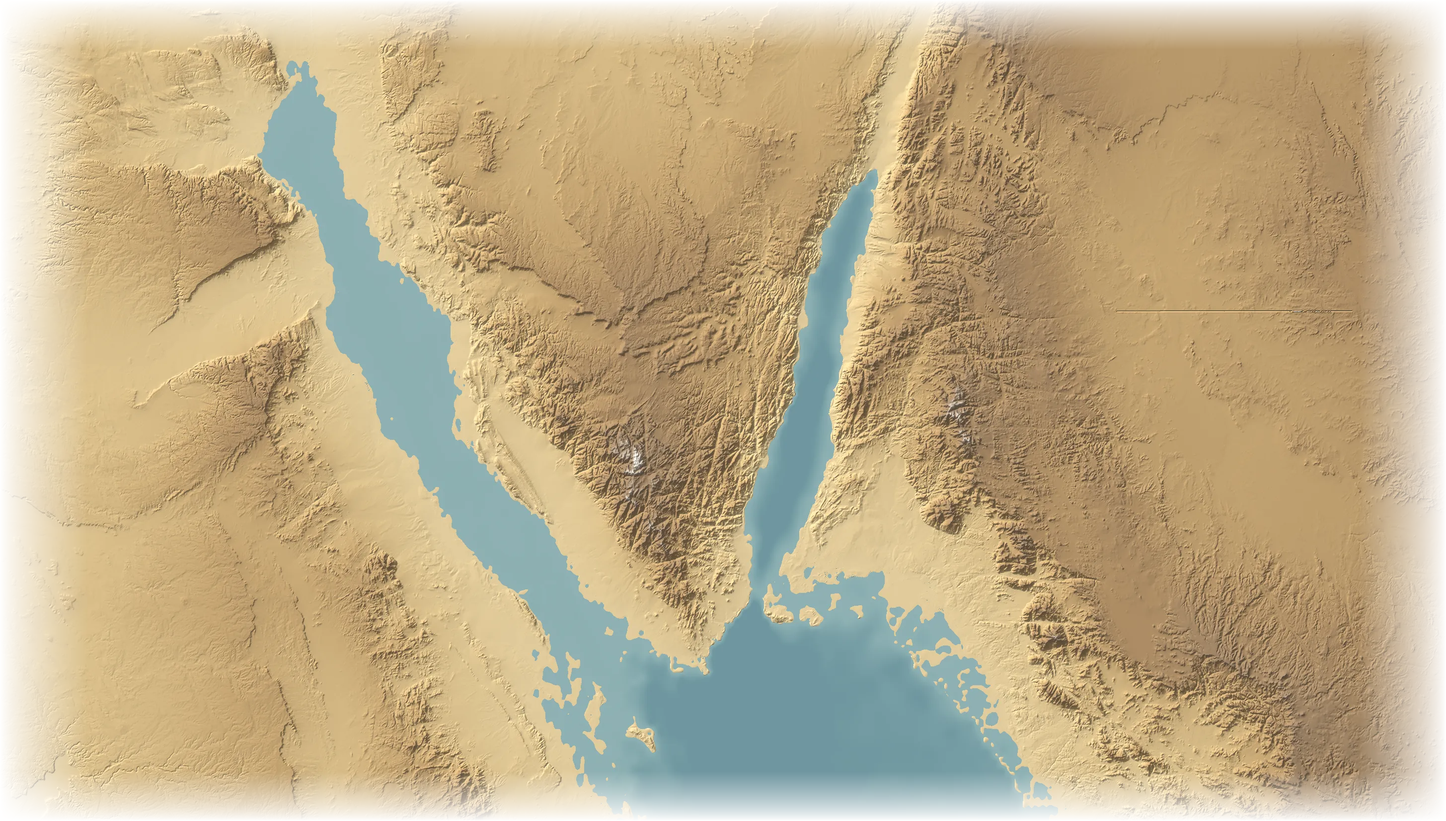
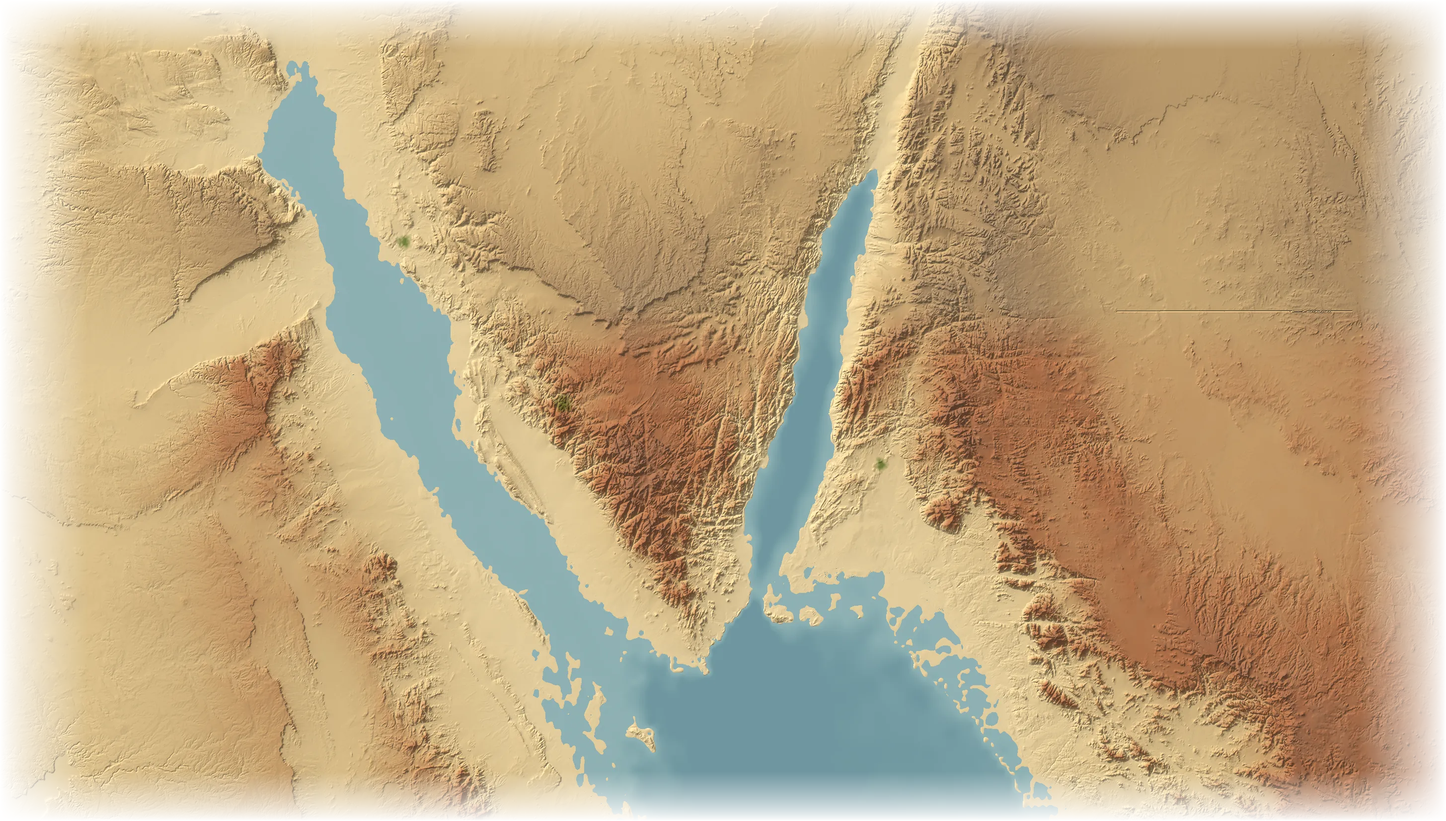
Sinai: red granite highlands and oasis palm groves
relief-south and the Sinai/Negev terrain colours tint the high southern
Sinai and Midian mountains toward red granite and paint green oases at
Elim, Wadi Feiran, Kadesh and Midian. In 3D the oases get palm groves;
trees and houses near the levelled stage ground follow its new height,
while models (Jerusalem, Egypt landmarks) are left alone.

Claude-Session: https://claude.ai/code/session_01GV3NhTaqGGfgU6h14cXy1F

diff --git a/terrain.js b/terrain.js
@@ -15,7 +15,7 @@ const TREG = {
   galilee: { lat0: 32.55, lat1: 33.45, lng0: 35.0, lng1: 35.95, fade: 'nwe' },
   judea: { lat0: 31.35, lat1: 32.55, lng0: 35.0, lng1: 35.95, fade: 'swe' },
   egypt: { lat0: 29.8, lat1: 31.35, lng0: 30.95, lng1: 32.65, fade: 'nswe' },
-  // 모세 여정만(south): 시내 반도와 그 북쪽 광야(가데스·호르산)는 29.8°에서 맞닿는다. 광야라 나무·마을을 두지 않는다(wild) — 진영은 무대가 세운다
+  // 모세 여정만(south): 시내 반도와 그 북쪽 광야(가데스·호르산)는 29.8°에서 맞닿는다. 광야라 나무·마을을 두지 않고 오아시스에 종려나무만(wild) — 진영은 무대가 세운다
   sinai: { lat0: 28.2, lat1: 29.8, lng0: 32.65, lng1: 35.6, fade: 'swe', south: 1, wild: 1 },
   negev: { lat0: 29.8, lat1: 30.95, lng0: 32.65, lng1: 35.6, fade: 'nwe', south: 1, wild: 1 },
 };
@@ -149,7 +149,7 @@ async function loadRegion(r) {
   r.mesh = new THREE.Mesh(geo, greyable(new THREE.MeshStandardMaterial({ map: mapTex(cImg), roughness: 0.95 })));
   r.mesh.receiveShadow = r.mesh.castShadow = true;
   scene.add(r.mesh);
-  if (!r.wild) { addTrees(r); addVillages(r); } // 광야에는 나무·마을이 없다 (색 그림의 바닷가 물빛을 풀빛으로 읽어 나무가 줄지어 섰다)
+  if (!r.wild) { addTrees(r); addVillages(r); } else addPalms(r); // 광야에는 나무·마을이 없다 (색 그림의 바닷가 물빛을 풀빛으로 읽어 나무가 줄지어 섰다)
   if (r.name === 'galilee') addBoats();
   if (r.name === 'judea') { addModel(buildJerusalem(), JLM, 1); addCityDetail(); }
   if (r.name === 'egypt') Object.values(EGYPT_MODELS).forEach(m => addModel(m.build(), m.extent, 0.6));
@@ -158,7 +158,7 @@ async function loadRegion(r) {
 // 예루살렘 둘레의 초정밀 색(2D 지도의 도성 타일, 지도 단위당 25.6픽셀)을 지형 위에 덧입힌다 —
 // 도성 장면은 바짝 다가가므로 지역 색 그림(단위당 2.2픽셀)으로는 땅이 뭉개져 보였다. 가장자리는 서서히 투명하게
 const RCITY = { lat0: 31.74, lat1: 31.81, lng0: 35.19, lng1: 35.28 }, RCITY_T = 20, RCITY_N = 4; // _src/relief.py의 CITY와 같게
-let cityDone = false;
+let cityDone = false; const models = [];
 async function addCityDetail() {
   cityDone = true;
   const P = 512, imgs = await Promise.all([...Array(RCITY_N * RCITY_N)].map((_, i) => loadImg(`assets/relief-city/${Math.floor(i / RCITY_N)}_${i % RCITY_N}.webp`).catch(() => null)));
@@ -237,6 +237,35 @@ let routes = [];
 
 /* ---------- 나무·마을·배·건물 ---------- */
 let seed = 3; const rnd = () => ((seed = (seed * 16807) % 2147483647) - 1) / 2147483646;
+// 광야의 오아시스 (위도, 경도, 반지름°): _src/relief.py의 OASES와 같게 — 엘림, 와디 페이란(르비딤), 가데스, 미디안.
+// 샘가에 종려나무 숲. 무대가 서면 그 둘레만 치워져(clearStageSpot) 진영이 숲 가장자리에 선 것처럼 보이게, 숲은 반지름보다 조금 넓게 심는다
+const OASES = [[29.28, 32.97, 0.02], [28.7, 33.65, 0.03], [30.65, 34.42, 0.018], [28.48, 35.0, 0.02]];
+function addPalms(r) {
+  const spots = [];
+  OASES.forEach(([lat, lng, rad]) => {
+    const [ox, oz] = px([lat, lng]), R = rad * 1000 * 1.5;
+    if (!regionAt(ox, oz) || regionAt(ox, oz) !== r) return;
+    for (let g = 0; g < 34; g++) { // 고르게 흩뿌리면 점박이로 보여 숲 덩이(5~12그루)로
+      const a = rnd() * 6.283, d = Math.sqrt(rnd()) * R, gx = ox + Math.cos(a) * d, gz = oz + Math.sin(a) * d;
+      for (let n = 5 + Math.floor(rnd() * 8); n--;) {
+        const x = gx + (rnd() - 0.5) * 4, z = gz + (rnd() - 0.5) * 4;
+        if (heightAt(x, z) >= 0) spots.push([x, z, 0.9 + rnd() * 0.6]); // 바다 위에는 심지 않는다
+      }
+    }
+  });
+  if (!spots.length) return;
+  const trunkM = greyable(new THREE.MeshStandardMaterial({ color: '#7a5f43', roughness: 1 })), crownM = greyable(new THREE.MeshStandardMaterial({ color: '#5f7a3c', roughness: 1, flatShading: true, emissive: '#22301a', emissiveIntensity: 0.6 }));
+  const trunk = new THREE.InstancedMesh(new THREE.CylinderGeometry(0.035, 0.06, 1, 5), trunkM, spots.length), crown = new THREE.InstancedMesh(new THREE.ConeGeometry(0.42, 0.28, 7), crownM, spots.length);
+  const o = new THREE.Object3D(), c = new THREE.Color();
+  spots.forEach(([x, z, s], i) => {
+    const y = heightAt(x, z), h = 1.3 * s;
+    o.position.set(x, y + h / 2, z); o.scale.set(s, h, s); o.rotation.set(0, 0, (rnd() - 0.5) * 0.15); o.updateMatrix(); trunk.setMatrixAt(i, o.matrix);
+    o.position.set(x, y + h, z); o.scale.set(s, s, s); o.rotation.set(Math.PI, rnd() * 6, 0); o.updateMatrix(); crown.setMatrixAt(i, o.matrix); // 뒤집은 원뿔: 아래로 처진 종려 잎
+    crown.setColorAt(i, c.set('#5f7a3c').multiplyScalar(0.85 + rnd() * 0.3));
+  });
+  trunk.castShadow = crown.castShadow = true; scene.add(trunk, crown);
+  clutterInstanced(trunk, true, 0.5); clutterInstanced(crown, true, 0.5); // 진영 바로 곁까지 — 무대 넓이만큼 다 치우면 숲이 고리처럼 남았다
+}
 function addTrees(r) {
   // 초록 기운이 있는 곳(색 그림으로 고른다)에 올리브·떡갈나무 덩이. 넓이에 비례해 심는다
   const img = r.color, cv = document.createElement('canvas'); cv.width = 256; cv.height = Math.round(256 * img.height / img.width);
@@ -270,7 +299,7 @@ function addVillages(r) {
       const dd = Math.hypot(Math.max(CITY.x0 - x, 0, x - CITY.x1), Math.max(CITY.z0 - z, 0, z - CITY.z1)); // 도성 곁(베다니)은 도성 모형의 집과 어울리게 작게
       const b = new THREE.Mesh(geo, m), s = (0.45 + rnd() * 0.4) * (dd < 14 ? 0.3 + 0.7 * dd / 14 : 1); // 집 한 채 50~90m 남짓 — 멀리서도 보이되 무대 인물보다 크지 않게
       b.scale.set(s, s * 0.7, s * (0.8 + rnd() * 0.5)); b.position.set(x, y + s * 0.35, z); b.rotation.y = rnd() * 3; b.castShadow = b.receiveShadow = true;
-      grp.add(b); clutter.meshes.push({ m: b, x, z });
+      grp.add(b); clutter.meshes.push({ m: b, x, z, y0: b.position.y, g0: heightAt(x, z) });
     }
     villages.set(k, grp); scene.add(grp);
   });
@@ -310,17 +339,18 @@ function addModel(group, E, scale) {
   });
   lifts.forEach(([o, h]) => { o.position.y += h; o.castShadow = o.receiveShadow = true; });
   if (E === JLM) city = true;
-  group.traverse(o => { if (o.isInstancedMesh) clutterInstanced(o); }); // 도성의 집·나무, 표지의 대추야자도 무대 자리에서는 비킨다
+  models.push([ox, oz, ex, ez]); // 모형 둘레는 땅을 고르지 않는다 (level)
+  group.traverse(o => { if (o.isInstancedMesh) clutterInstanced(o, false); }); // 도성의 집·나무, 표지의 대추야자도 무대 자리에서는 비킨다
 }
 // 무대가 서는 자리의 집·나무는 잠시 치운다. 무대는 지도 위에 겹쳐 그리는 그림이라, 그 밑의 집·나무가 인물 사이로 삐져나와 보인다.
 // 치우는 넓이는 무대 그림의 크기(화면 px)를 그 자리의 지도 단위로 바꾼 것 — 당기고 물러나면 따라 바뀐다
 let city = false;
-const clutter = { inst: [], meshes: [] }, ZERO = new THREE.Matrix4().makeScale(0, 0, 0);
-function clutterInstanced(o) {
+const clutter = { inst: [], meshes: [] }, ZERO = new THREE.Matrix4().makeScale(0, 0, 0), M4 = new THREE.Matrix4();
+function clutterInstanced(o, follow = true, near = 1) { // follow: 땅을 고를 때 높이를 따라간다 (모형 안의 것은 모형과 함께 제자리)
   o.updateMatrixWorld(true);
   const ms = [], xz = [], m = new THREE.Matrix4(), w = new THREE.Vector3();
   for (let i = 0; i < o.count; i++) { o.getMatrixAt(i, m); ms.push(m.clone()); w.setFromMatrixPosition(m).applyMatrix4(o.matrixWorld); xz.push([w.x, w.z]); }
-  clutter.inst.push({ o, ms, xz });
+  clutter.inst.push({ o, ms, xz, near, g0: follow && xz.map(([x, z]) => heightAt(x, z)) }); // near: 무대 반지름의 몇 배 안을 치우나
   cleared = null; // 새로 생긴 것도 한 번 따져 본다
 }
 let cleared = null;
@@ -341,7 +371,8 @@ function level(cx, cz, r) {
   const y0 = heightAt(cx, cz);
   if (standAt(cx, cz) > y0 + 0.01) return;
   const R0 = r * 1.25, R1 = r * 2.2, [qx0, qz0] = px([RCITY.lat1, RCITY.lng0]), [qx1, qz1] = px([RCITY.lat0, RCITY.lng1]);
-  if (cityDone && cx + R1 > qx0 && cx - R1 < qx1 && cz + R1 > qz0 && cz - R1 < qz1) return; // 예루살렘 둘레의 초정밀 색 판은 땅 높이를 미리 따라 지었다 (베다니)
+  const near = ([x0, z0, x1, z1]) => cx + R1 > x0 && cx - R1 < x1 && cz + R1 > z0 && cz - R1 < z1;
+  if ((cityDone && near([qx0, qz0, qx1, qz1])) || models.some(near)) return; // 예루살렘 둘레의 초정밀 색 판(베다니)과 도성·애굽 표지 모형은 땅 높이를 미리 따라 지었다
   regions.forEach(rg => {
     if (!rg.heights || cx + R1 < rg.X0 || cx - R1 > rg.X1 || cz + R1 < rg.Z0 || cz - R1 > rg.Z1) return;
     const H = rg.heights, w = rg.hw, sx = (rg.X1 - rg.X0) / (w - 1), sz = (rg.Z1 - rg.Z0) / (rg.hh - 1), ks = [], orig = [];
@@ -370,8 +401,12 @@ function clearStageSpot() {
   if (cleared && Math.abs(cleared.cx - cx) < 0.01 && Math.abs(cleared.cz - cz) < 0.01 && Math.abs(cleared.r - r) <= cleared.r * 0.08) return;
   if (!leveled || Math.hypot(leveled.cx - cx, leveled.cz - cz) > Math.max(r, leveled.r) * 0.25 || Math.abs(leveled.r - r) > leveled.r * 0.08) level(cx, cz, r);
   cleared = { cx, cz, r };
-  clutter.meshes.forEach(({ m, x, z }) => { m.visible = Math.hypot(x - cx, z - cz) > r; });
-  clutter.inst.forEach(({ o, ms, xz }) => { ms.forEach((m, i) => o.setMatrixAt(i, Math.hypot(xz[i][0] - cx, xz[i][1] - cz) > r ? m : ZERO)); o.instanceMatrix.needsUpdate = true; });
+  // 무대 밑 땅을 고른 둘레의 나무·집은 고른 땅 높이를 따라 올리고 내린다 (g0: 심을 때의 땅 높이)
+  clutter.meshes.forEach(c => { c.m.visible = Math.hypot(c.x - cx, c.z - cz) > r; c.m.position.y = c.y0 + heightAt(c.x, c.z) - c.g0; });
+  clutter.inst.forEach(({ o, ms, xz, g0, near }) => { ms.forEach((m, i) => { const [x, z] = xz[i];
+    if (Math.hypot(x - cx, z - cz) <= r * near) return o.setMatrixAt(i, ZERO);
+    const dy = g0 ? heightAt(x, z) - g0[i] : 0; o.setMatrixAt(i, dy ? M4.copy(m).setPosition(m.elements[12], m.elements[13] + dy, m.elements[14]) : m); });
+  o.instanceMatrix.needsUpdate = true; });
 }
 
 /* ---------- 걷는 사람 (2D 지도의 걷는 표시를 3D로) ----------

diff --git a/_src/relief.py b/_src/relief.py
@@ -43,6 +43,26 @@ MESO_GREEN = [[(32.8, 44.6), (32.8, 49.9), (29.2, 49.9), (29.2, 44.6)]]
 # 시내 반도·미디안 바탕(모세와 여호수아 여정): 본 바탕과 애굽 쪽 바탕의 남쪽에 이어 붙인다. app.js 여정 설정(journey.map)의 RELIEF_SOUTH와 같게.
 # 사막이라 비·풀빛 없이(dry) 바위와 모래로만 칠한다. 홍해의 두 만은 지도에서 벡터로 덮는다
 SOUTH = dict(lat0=27.2, lat1=30.15, lng0=31.25, lng1=37.4)  # 북쪽은 수에즈 만 끝(30.0)까지 — 지도에서 다른 바탕들 위에 깐다
+# 시내 광야의 색 (relief-south와 3D 시내·네게브 지역이 함께 쓴다, terrain.js의 OASES와 같게):
+# - 남쪽 시내의 높은 산지와 미디안의 산은 붉은 화강암 — 모래색 대신 붉은 바위빛으로
+# - 오아시스: 샘가의 종려나무 숲 (엘림 와디 가란델, 르비딤 곁 와디 페이란, 가데스 아인 쿠데이랏, 미디안 알바드)
+OASES = [(29.28, 32.97, .02), (28.70, 33.65, .03), (30.65, 34.42, .018), (28.48, 35.0, .02)]
+
+
+def desert_tint(rgb, dem, lat, lng):
+    LA, LO = lat[:, None], lng[None, :]
+    south = np.clip((29.05 - LA) / .2, 0, 1)
+    high = np.clip((dem - 550) / 650, 0, 1)
+    grain = .85 + .3 * vnoise(lat, lng, .05)  # 바위 결: 고르게 칠하지 않는다
+    g = (south * high * grain)[..., None] * .75
+    rgb = rgb * (1 - g) + rgb * np.array([1.0, .74, .64]) * g
+    for a, o, r in OASES:  # 물가는 짙은 종려 초록, 가장자리는 잡음으로 들쭉날쭉
+        d = np.hypot((LA - a) / r, (LO - o) * COS / r) + (vnoise(lat, lng, r / 2) - .5) * .8
+        m = np.clip(1.4 - d, 0, 1)[..., None] * .85
+        rgb = rgb * (1 - m) + np.array([92, 120, 64]) * (rgb / 200) * m
+    return rgb
+
+
 URL = 'https://s3.amazonaws.com/elevation-tiles-prod/terrarium/{z}/{x}/{y}.png'
 OUT = Path(__file__).resolve().parent.parent / 'assets' / 'relief.webp'
 
@@ -224,7 +244,7 @@ def paint(dem, rain, land, k, farm=None):
     return np.clip(rgb * k[..., None], 0, 255)
 
 
-def base(cache, e, out, green=None, keep='', lines=NILE, dry=False, meadow=False, sea=False):
+def base(cache, e, out, green=None, keep='', lines=NILE, dry=False, meadow=False, sea=False, sinai=False):
     """넓은 바탕 한 장. green: 강·관개로 푸른 땅의 (위도, 경도) 다각형들 — 비가 적어도 초록으로 칠한다(나일 삼각주).
     keep: 투명하게 풀지 않을 가장자리('l','r') — 두 장이 맞닿는 쪽을 둘 다 풀면 그 사이로 바탕색 띠가 보인다"""
     w = round((e['lng1'] - e['lng0']) * COS * 1000 * PX_PER_UNIT)
@@ -248,7 +268,9 @@ def base(cache, e, out, green=None, keep='', lines=NILE, dry=False, meadow=False
     farm = farmland(lat, lng, green, lines, meadow) if green else None
     if farm is not None and dry:  # 높은 산자락(300m 넘게)은 풀빛을 걷어 바위로
         farm = (farm[0] * np.clip((500 - dem) / 200, 0, 1), farm[1])
-    rgb = paint(dem, rain, land, shading(dem, lat, lng, 2.5), farm)
+    rgb = paint(np.minimum(dem, 1900) if sinai else dem, rain, land, shading(dem, lat, lng, 2.5), farm)  # 시내: 봉우리를 눈빛으로 칠하지 않는다
+    if sinai:
+        rgb = desert_tint(rgb, dem, lat, lng)
     if sea:  # 시내 반도: 홍해의 두 만은 고도 자료의 해안선 그대로 바다색으로 (지도의 바다 색 --sea·--sea-deep과 같게, 깊을수록 짙게)
         raw = sample(mosaic_for(cache, e, Z), Z, lat, lng)
         deep = np.clip(-raw / 900, 0, 1)[..., None]
@@ -273,7 +295,7 @@ def main(cache, only=None):
     cache.mkdir(parents=True, exist_ok=True)
     e = EXTENT
     # 시내 반도·미디안 바탕 (assets/relief-south.webp) — 따로 만들 수 있다 (`... south`)
-    base(cache, SOUTH, OUT.parent / 'relief-south.webp', lines=(), dry=True, sea=True)
+    base(cache, SOUTH, OUT.parent / 'relief-south.webp', lines=(), dry=True, sea=True, sinai=True)
     if only == 'south':
         return
     # 에덴 둘레 바탕 (assets/relief-east.webp) — 홀로 있어 네 가장자리를 모두 풀고, 따로 만들 수 있다 (`... east`)

diff --git a/_src/terrain.py b/_src/terrain.py
@@ -42,7 +42,7 @@ def dry_color(cache, e, size):
     lng = e['lng0'] + (np.arange(w) + .5) / w * (e['lng1'] - e['lng0'])
     lat = e['lat1'] - (np.arange(h) + .5) / h * (e['lat1'] - e['lat0'])
     dem = R.sample(R.mosaic_for(Path(cache), e, 11), 11, lat, lng)
-    rgb = R.paint(np.minimum(dem, 1900), np.zeros_like(dem), np.ones_like(dem), R.shading(dem, lat, lng, 1.8))
+    rgb = R.desert_tint(R.paint(np.minimum(dem, 1900), np.zeros_like(dem), np.ones_like(dem), R.shading(dem, lat, lng, 1.8)), dem, lat, lng)  # 붉은 화강암 산지·오아시스
     sea = gulf(cache, e, lat, lng)
     deep = np.clip(-sea / 900, 0, 1)[..., None]
     rgb = np.where((sea < -6)[..., None], np.array([143, 178, 180]) * (1 - deep) + np.array([111, 151, 160]) * deep, rgb)
